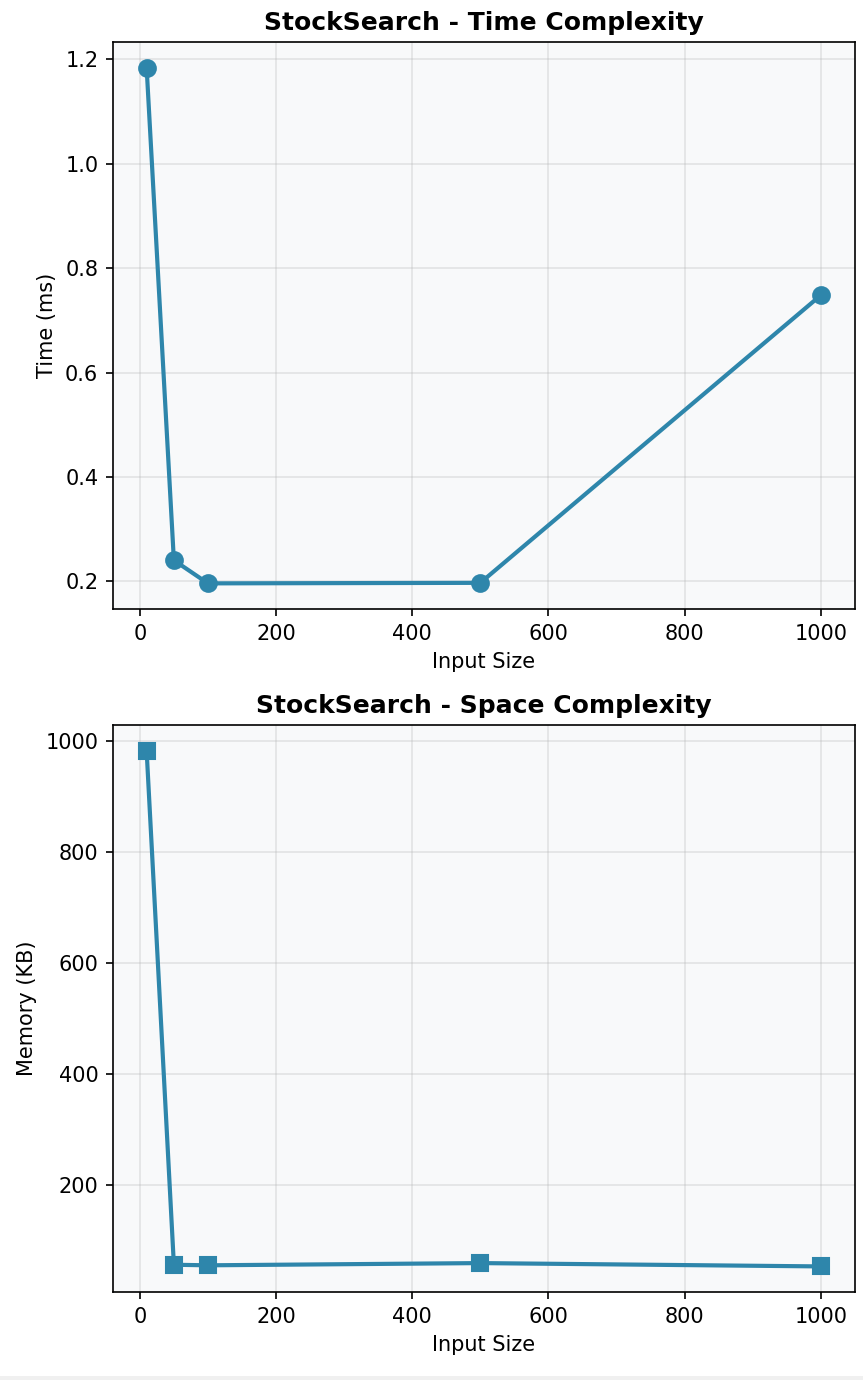
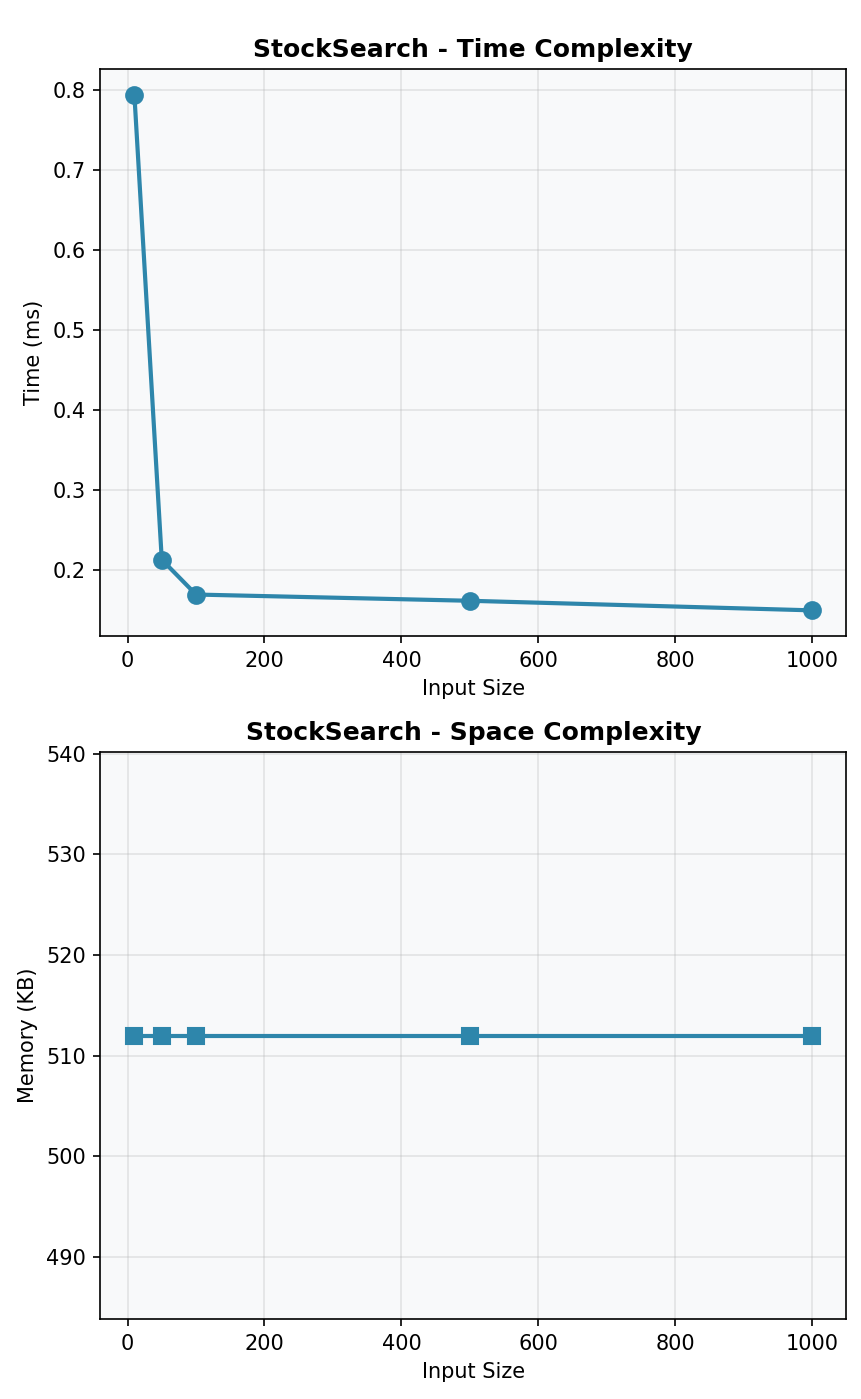
fixed graphs

diff --git a/README.md b/README.md
@@ -30,7 +30,7 @@ Be in the `stock-market-system` directory, then run the following commands in yo
 
 ```bash
 javac -d out -sourcepath src src/stockmarket/Main.java
-java -cp out stockmarket.Main
+java -Xms512m -Xmx512m -XX:+AlwaysPreTouch -cp out stockmarket.Main  
 ```
 ## Complexity Analysis
 
